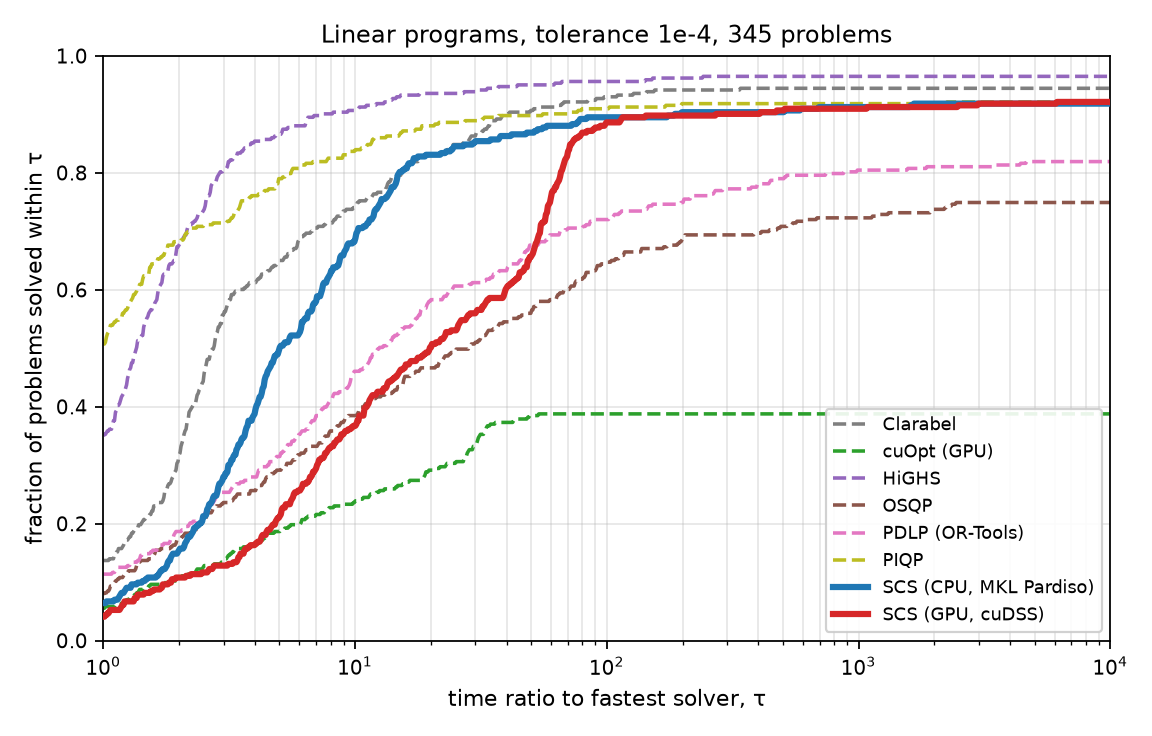
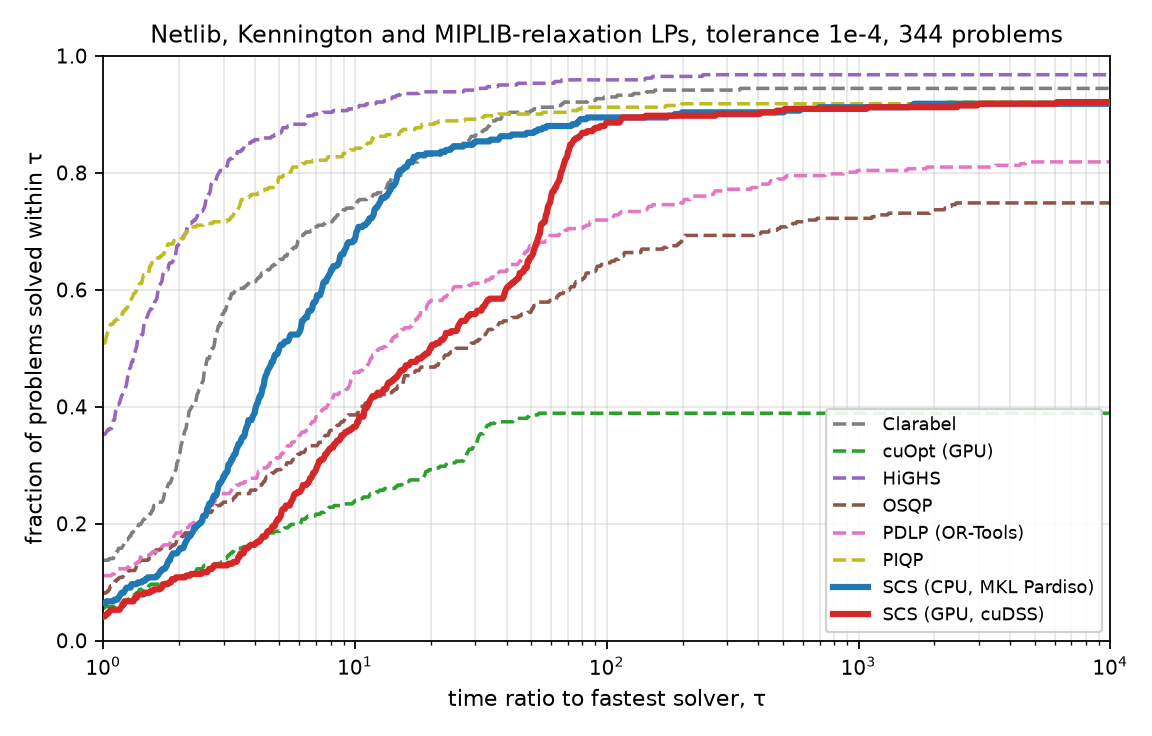
docs: name the data sets in figure titles; LP family without the qap15 stray

diff --git a/docs/src/benchmarks/index.rst b/docs/src/benchmarks/index.rst
@@ -278,8 +278,8 @@ first-order solver by a wide margin.
 Linear programs
 ---------------
 
-345 problems: Netlib, Kennington, the MIPLIB 2017 LP relaxations up to 20 MB
-and the Mittelmann LP set. SCS is not an LP solver and is not marketed as one,
+344 problems: Netlib, Kennington and the MIPLIB 2017 LP relaxations up to
+20 MB. SCS is not an LP solver and is not marketed as one,
 so this comparison is included mainly to show that it is not a bad one: on the
 largest quarter of the LP set SCS with cuDSS verifies as many solutions as
 HiGHS (dual simplex) and is second only to it in geometric mean time, ahead of
@@ -303,7 +303,7 @@ verification (see the notes below).
    :width: 90 %
    :align: center
 
-.. list-table:: LP: verified solves and shifted geometric mean time (s); all 345 problems / largest quartile (87)
+.. list-table:: LP: verified solves and shifted geometric mean time (s); all 344 problems / largest quartile (86)
    :header-rows: 1
    :widths: 26 12 12 12 12 12 12 12 12
 
@@ -318,76 +318,76 @@ verification (see the notes below).
      - gm 1e-6 (largest)
    * - HiGHS
      - 331
-     - 4.8
-     - 75
-     - 25.0
+     - 4.6
+     - 74
+     - 25.5
      - 331
-     - 4.8
-     - 75
-     - 25.0
+     - 4.6
+     - 74
+     - 25.5
    * - PIQP
-     - 316
-     - 8.6
-     - 66
-     - 42.2
-     - 310
-     - 9.8
-     - 65
-     - 43.0
-   * - Clarabel
-     - 324
-     - 9.5
-     - 71
-     - 59.2
-     - 312
-     - 12.4
-     - 66
-     - 72.7
-   * - SCS (GPU, cuDSS)
-     - 316
-     - 10.8
-     - 75
-     - 33.9
-     - 299
-     - 16.5
-     - 67
-     - 49.0
-   * - SCS (CPU, MKL Pardiso)
      - 315
-     - 11.0
-     - 72
-     - 48.3
-     - 295
-     - 18.9
-     - 62
-     - 79.2
+     - 8.5
+     - 65
+     - 43.2
+     - 309
+     - 9.7
+     - 64
+     - 44.0
+   * - Clarabel
+     - 323
+     - 9.5
+     - 70
+     - 60.7
+     - 311
+     - 12.4
+     - 65
+     - 74.6
+   * - SCS (GPU, cuDSS)
+     - 315
+     - 10.8
+     - 74
+     - 34.6
+     - 298
+     - 16.5
+     - 66
+     - 50.1
+   * - SCS (CPU, MKL Pardiso)
+     - 314
+     - 10.9
+     - 71
+     - 49.4
+     - 294
+     - 18.8
+     - 61
+     - 81.3
    * - PDLP (OR-Tools)
-     - 281
-     - 23.9
-     - 48
-     - 140.5
-     - 173
-     - 129.9
-     - 40
-     - 227.8
+     - 280
+     - 24.0
+     - 47
+     - 144.8
+     - 172
+     - 130.7
+     - 39
+     - 234.6
    * - OSQP
-     - 257
+     - 256
      - 41.0
-     - 45
-     - 205.9
-     - 177
-     - 132.0
+     - 44
+     - 210.2
+     - 176
+     - 131.9
      - 23
-     - 484.3
+     - 480.3
    * - cuOpt (GPU)
      - 133
-     - 164.5
-     - 25
-     - 269.2
+     - 163.7
+     - 24
+     - 280.1
      - 123
-     - 188.3
+     - 187.4
      - 20
-     - 346.3
+     - 342.0
 
 .. _bench_sdp:
 
@@ -565,12 +565,12 @@ Notes on individual solvers
   reports the solve as optimal, and even though its own reported absolute
   dual residual is in the tens or hundreds. Under the uniform check used here
   those solves count as failures; by its own status cuOpt reports 233 of the
-  345 LPs optimal at :math:`10^{-4}`, and 36 of the 37 Mittelmann instances,
+  344 LPs optimal at :math:`10^{-4}`, and 36 of the 37 Mittelmann instances,
   of which only 7 pass the check. Its QP path is a barrier method
   whose solutions verify cleanly. We used cuOpt 26.8.0 with default settings apart
   from the tolerance and time limit.
 * **PDLP (OR-Tools).** The same L2-relative termination rule applies, with a
-  milder effect: 26 of its 307 "optimal" LP returns at :math:`10^{-4}` have
+  milder effect: 26 of its 306 "optimal" LP returns at :math:`10^{-4}` have
   infinity-norm residuals between :math:`10^{-3}` and :math:`10^{-2}`.
 * **HiGHS.** Its QP solver is an active-set method and is slow on the larger
   QPs; its LP simplex is the fastest LP code in the comparison.

diff --git a/docs/src/index.rst b/docs/src/index.rst
@@ -103,8 +103,9 @@ including SDPs, and the raw data are on the :ref:`benchmarks page
    :align: center
    :alt: Performance profiles and geometric mean solve times on the largest QPs, largest LPs and the Mittelmann LP set
 
-   Largest quarter of the QP test sets (top), largest quarter of the LP test
-   sets (middle) and the Mittelmann large-LP set (bottom), at tolerance
+   Largest quarter of the Maros-Meszaros, QPLIB and MPC QPs (top), largest
+   quarter of the Netlib, Kennington and MIPLIB-relaxation LPs (middle) and
+   the Mittelmann large-LP set (bottom), at tolerance
    :math:`10^{-4}`. Left: fraction of problems solved within a factor
    :math:`\tau` of the fastest solver. Right: shifted geometric mean solve
    time with failures charged 1000 s, and the number of verified solves.
